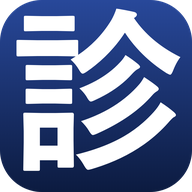
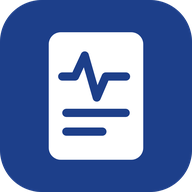
ref r20: アイコンをピクトグラムへ（メモ＋脈波、フラット）

diff --git a/ref/sw.js b/ref/sw.js
@@ -1,4 +1,4 @@
-const CACHE = 'ref-20261101-r19';
+const CACHE = 'ref-20261101-r20';
 const ASSETS = [
   './',
   './index.html',
